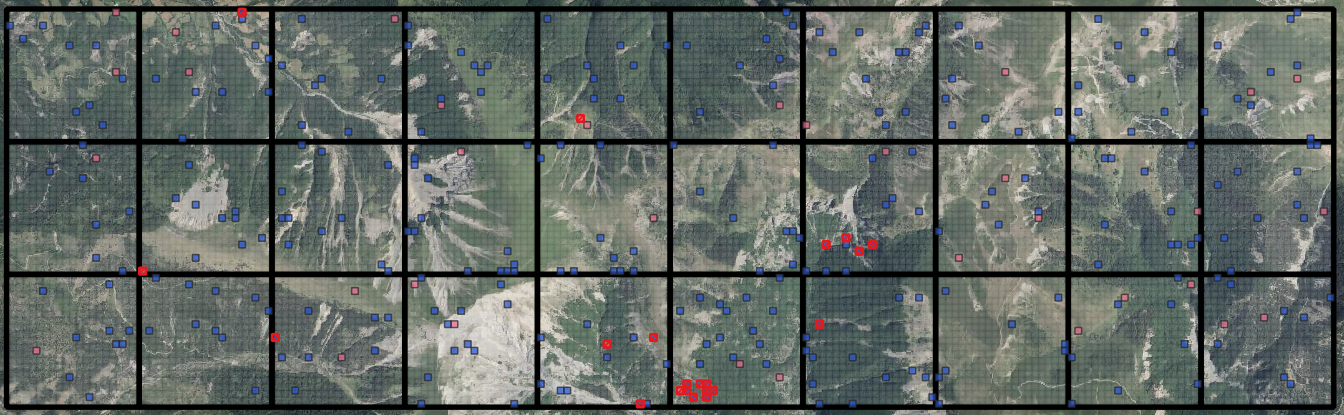
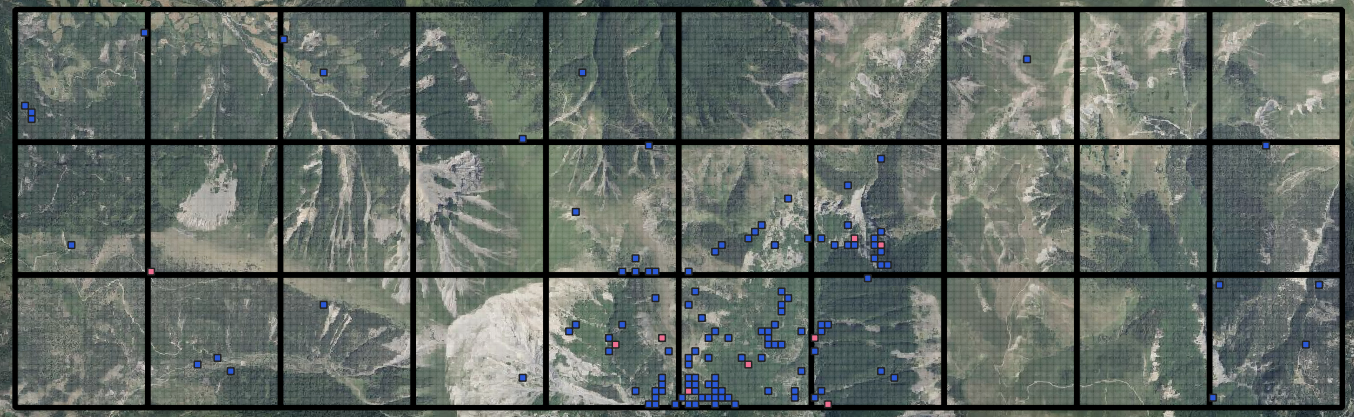
synthetic + diversity config

diff --git a/src/pacasam/samplers/diversity.py b/src/pacasam/samplers/diversity.py
@@ -37,8 +37,7 @@ class DiversitySampler(Sampler):
                 if normalization is set to 'standardization'. Defaults to 50.
             targets (List[str]): The columns considered for patch-to-patch distance in FPS.
             max_chunk_size_for_fps (int): max num of (consecutive) patches to process by FPS. Lower chunks means that we look for diversity in
-            smaller sets of points, thus yielding les diverse points. In particular, lower chunks tend to exclude more rural areas since
-            the most diverse histograms arer primarly found in anthropogenic areas.
+            smaller sets of points, thus yielding a better spatial coverage.
 
         Returns:
             A list of length `num_diverse_to_sample` containing the indices of the sampled points.
@@ -62,7 +61,7 @@ class DiversitySampler(Sampler):
         self.cols_for_fps = self.cf["DiversitySampler"]["columns"]
 
         df = self.connector.extract(selection=None)
-        df = df
+        df = df.sort_values(by="id")
         df = df[TILE_INFO + self.cols_for_fps]
         df = self.normalize_df(df, self.cols_for_fps)
 

diff --git a/src/pacasam/main.py b/src/pacasam/main.py
@@ -45,9 +45,9 @@ def main():
     gpkg_path = outdir / f"{sampler.name}-{connector.name}-extract.gpkg"
     log.info(f"Saving N={len(gdf)} patches into {gpkg_path}...")
     gdf.to_file(gpkg_path)
-    log.info(f"Saving html report under {output_path}")
 
     output_path = outdir / f"{sampler.name}-{connector.name}-dataviz/"
+    log.info(f"Saving html report under {output_path}")
     make_all_graphs_and_a_report(gpkg_path=gpkg_path, output_path=output_path)
 
 
